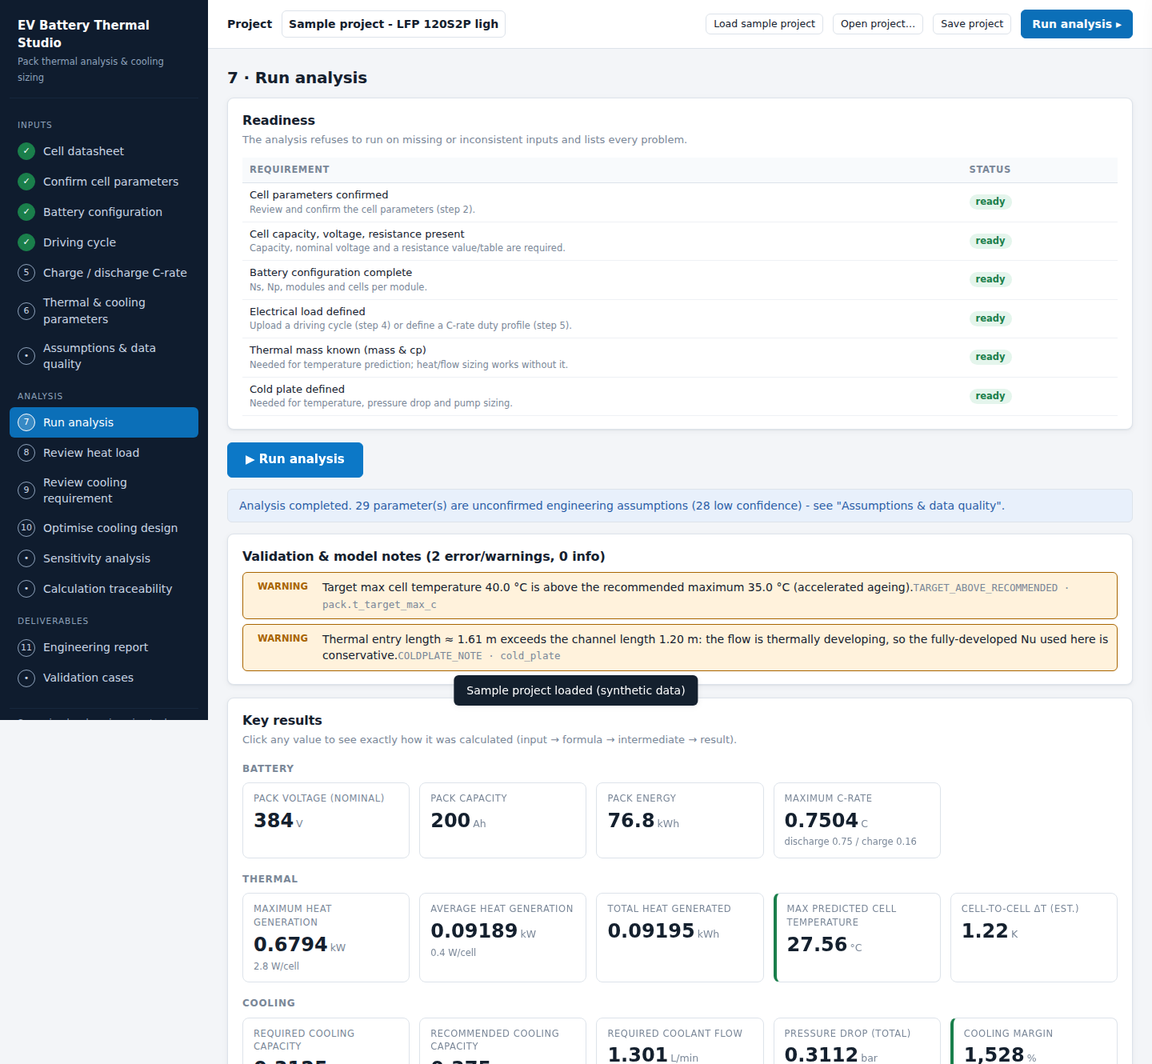
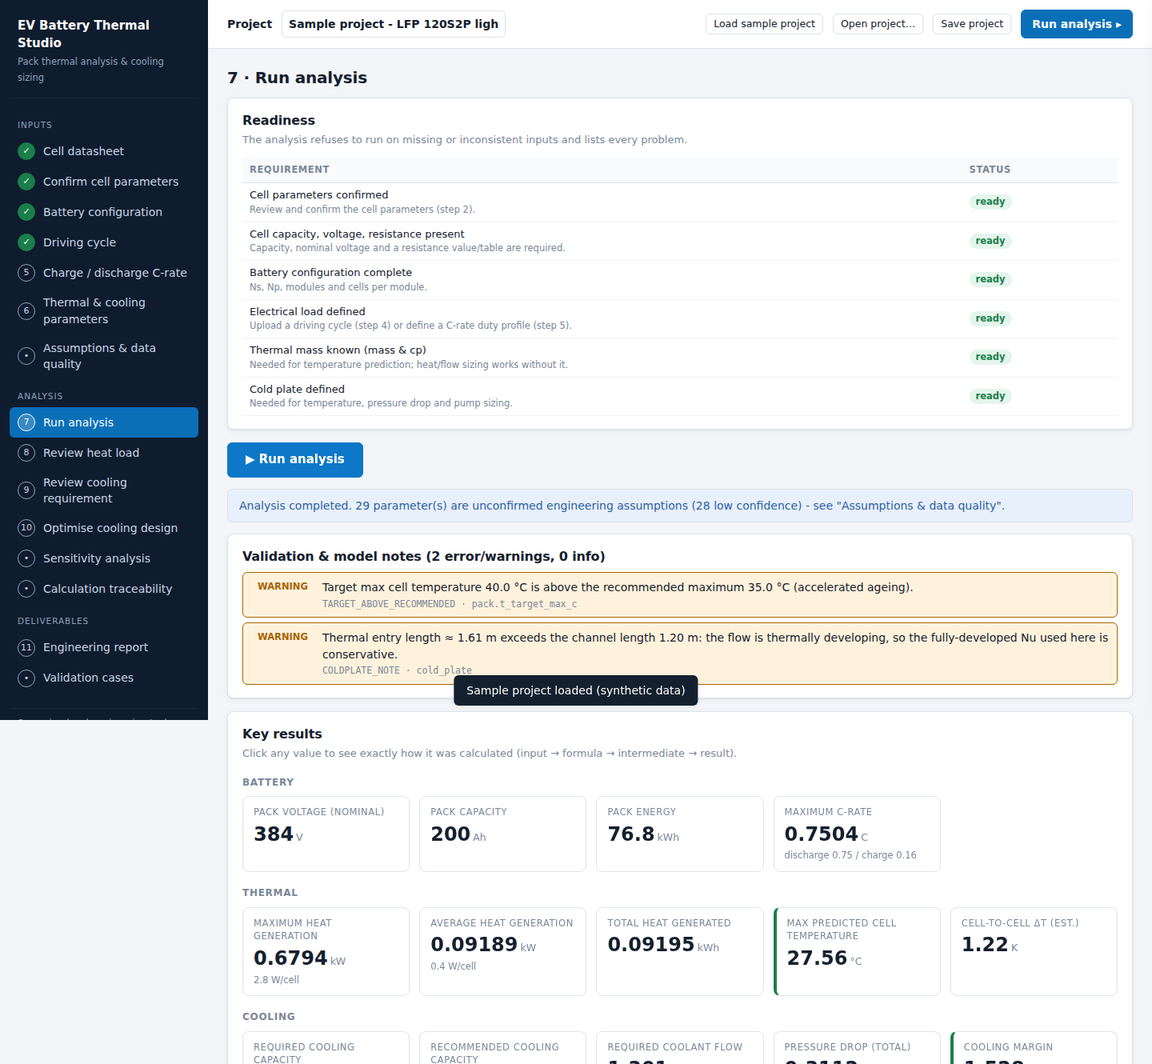
Guard against oversized load definitions (500 000 time steps), refresh docs images, update test counts
Claude-Session: https://claude.ai/code/session_014Rjd9FZFbiM1ntHUMYT8PX

diff --git a/battery_thermal/engine/validation.py b/battery_thermal/engine/validation.py
@@ -12,6 +12,7 @@ from typing import Iterable
 from .schemas import AnalysisRequest, CellSpec, PackConfig
 
 ERROR, WARNING, INFO = "error", "warning", "info"
+MAX_TIME_STEPS = 500_000          # guard for the load definition: ~25 s per analysis at the engine's speed of ~20 000 steps/s
 
 
 @dataclass
@@ -330,6 +331,9 @@ def validate_load(req: AnalysisRequest) -> list[Issue]:
                 add("CYCLE_MISSING_VALUES", ERROR, f"cycle.{name}", f"{name} contains missing / non-finite values.")
         if not (1 <= opt.repeats <= 200):
             add("CYCLE_REPEATS_INVALID", ERROR, "cycle_options.repeats", "Cycle repeats must be between 1 and 200.")
+        elif len(c.time_s) * opt.repeats > MAX_TIME_STEPS:
+            add("CYCLE_TOO_LONG", ERROR, "cycle.time_s", f"{len(c.time_s)} samples × {opt.repeats} repeat(s) = {len(c.time_s) * opt.repeats:,} time steps exceeds the limit of {MAX_TIME_STEPS:,}.",
+                "Resample the cycle to a coarser time step (thermal behaviour is insensitive to steps well below the thermal time constant) or shorten it.")
     if req.vehicle is not None:
         out += validate_vehicle(req.vehicle)
     p = req.crate_profile
@@ -338,6 +342,8 @@ def validate_load(req: AnalysisRequest) -> list[Issue]:
             add("CRATE_PROFILE_INVALID", ERROR, "crate_profile.dt_s", "Profile time step must be > 0 s.")
         if not p.segments:
             add("CRATE_PROFILE_INVALID", ERROR, "crate_profile.segments", "The C-rate profile has no segments.")
+        elif p.dt_s > 0 and sum(max(sg.duration_s, 0.0) for sg in p.segments) / p.dt_s > MAX_TIME_STEPS:
+            add("CYCLE_TOO_LONG", ERROR, "crate_profile.dt_s", f"The profile would need more than {MAX_TIME_STEPS:,} time steps at dt = {p.dt_s:g} s.", "Use a larger profile time step.")
         for i, s in enumerate(p.segments):
             if s.c_rate < 0 or s.duration_s <= 0:
                 add("CRATE_INVALID", ERROR, f"crate_profile.segments[{i}]", f"Segment {i + 1}: C-rate must be >= 0 and duration > 0 s.")

diff --git a/tests/test_pipeline.py b/tests/test_pipeline.py
@@ -74,6 +74,24 @@ def test_unconfirmed_cell_blocks_the_analysis():
     assert ok["status"] == "ok"
 
 
+def test_oversized_load_definitions_are_refused_before_any_calculation():
+    """A cycle (or a C-rate profile at a tiny step) that would need more than 500 000 time steps is rejected with advice, quickly."""
+    big = run_analysis(base_request(cycle=cycle_const_current(100.0, n=250_001), cycle_options={"repeats": 2}))       # 250 001 × 2 = 500 002 steps
+    assert big["status"] == "blocked"
+    issue = next(i for i in big["issues"] if i["code"] == "CYCLE_TOO_LONG")
+    assert "500,002" in issue["message"] and "Resample" in issue["hint"]
+    edge = run_analysis(base_request(cycle=cycle_const_current(100.0, n=200), cycle_options={"repeats": 200}))        # 40 000 steps: fine
+    assert "CYCLE_TOO_LONG" not in {i["code"] for i in edge["issues"]}
+    from battery_thermal.engine.schemas import CRateProfile, Segment
+    req = base_request()
+    req.cycle = None                                                                                                   # C-rate duty profile instead of a cycle
+    req.crate_profile = CRateProfile(dt_s=0.001, segments=[Segment(kind="discharge", c_rate=1.0, duration_s=3600.0)])   # 3.6 million steps
+    prof = run_analysis(req)
+    assert prof["status"] == "blocked" and "CYCLE_TOO_LONG" in {i["code"] for i in prof["issues"]}
+    req.crate_profile = CRateProfile(dt_s=1.0, segments=[Segment(kind="discharge", c_rate=1.0, duration_s=3600.0)])    # 3 600 steps: fine
+    assert "CYCLE_TOO_LONG" not in {i["code"] for i in run_analysis(req)["issues"]}
+
+
 def test_missing_data_errors_are_reported_together():
     r = run_analysis(base_request(cell=cell_100ah(capacity_ah=None, r_dc_mohm=None, v_nom=None), pack=PackConfig(ns=120, np=1, n_modules=10, cells_per_module=10)))
     codes = {i["code"] for i in r["issues"] if i["severity"] == "error"}

diff --git a/docs/01_PHASE_LOG.md b/docs/01_PHASE_LOG.md
@@ -12,11 +12,11 @@ the module docstrings carry the same derivations.
 | 4 | Electrical model + heat generation (resistance levels 1-4, entropic heat) | 26 |
 | 5 | Lumped transient thermal model, design heat-load philosophies, capacity sizing | 22 |
 | 6-7 | Coolant properties, flow requirement, cold-plate resistance chain, channel hydraulics, pump | 25 |
-| - | Pipeline orchestration, sizing, 8 checks, margins, assumptions register, traceability (31); sensitivity, optimiser, analysis API (9) | 40 |
+| - | Pipeline orchestration, sizing, 8 checks, margins, assumptions register, traceability (32); sensitivity, optimiser, analysis API (9) | 41 |
 | 8 | Results dashboard (KPIs, checks, 7 graphs, cooling review, sensitivity, optimiser, trace drawer) | browser flows |
 | 9 | PDF + Excel engineering reports, report API | 28 |
 | 10 | Built-in validation cases + API (14), SciPy cross-checks (5), documentation | 19 |
-|   | **Total** | **246** |
+|   | **Total** | **247** |
 
 ---------------------------------------------------------------------------
 
@@ -107,6 +107,8 @@ Coolant: water (steam-table fits), ethylene / propylene glycol mixtures (mixing 
 * Full chain for validation case 1 with SF 1.2: `Q_design = 5.76 kW`, `ṁ = 0.338824 kg/s = 19.0 L/min`.
 * **Trace integrity** is tested for every design philosophy: every dependency named by a trace node exists, every KPI and check points at an existing node, and the selected
   philosophy's value chains back to genuine inputs (not merely to the peak instant).
+* Load definitions that would need more than 500 000 time steps (cycle samples × repeats, or a C-rate profile at a tiny step) are refused with advice (`CYCLE_TOO_LONG`);
+  the engine runs at roughly 20 000 steps per second (10 000 steps: 0.6 s, 400 000 steps: 21 s).
 * Sensitivity: one-at-a-time on 12 parameters (uses `cycle_options.load_scale`). Optimiser: grid search for minimum pump power under all constraints with
   a fast decoupled evaluator that reproduces the full pipeline exactly for constant-resistance cells.
 

diff --git a/README.md b/README.md
@@ -105,7 +105,7 @@ engineering defaults are always labelled *Assumed* with a confidence; every resu
 
 ```bash
 pip install -r requirements-dev.txt
-pytest                                   # ~250 tests, ~3 minutes
+pytest                                   # 247 tests, about 2 minutes
 python scripts/ui_smoke.py --steps "" --script scripts/ui_flow_full.py      # browser flow (Playwright + Chromium)
 ```
 
@@ -157,5 +157,6 @@ tests/  scripts/  sample_data/  docs/
 * Radiator / chiller figures are heat-rejection *requirements*; final sizing needs air-side and exchanger-design data.
 * PDF datasheet extraction depends on the layout of the document (text-based PDFs only, no OCR): that is why extraction is always reviewed and confirmed.
 * Time integration is sample-and-hold; spikes between the samples of a coarsely sampled cycle are not represented.
+* A load definition is limited to 500 000 time steps (about 138 h at 1 Hz); resample longer cycles.
 
 See report Section 16 for the complete list.
